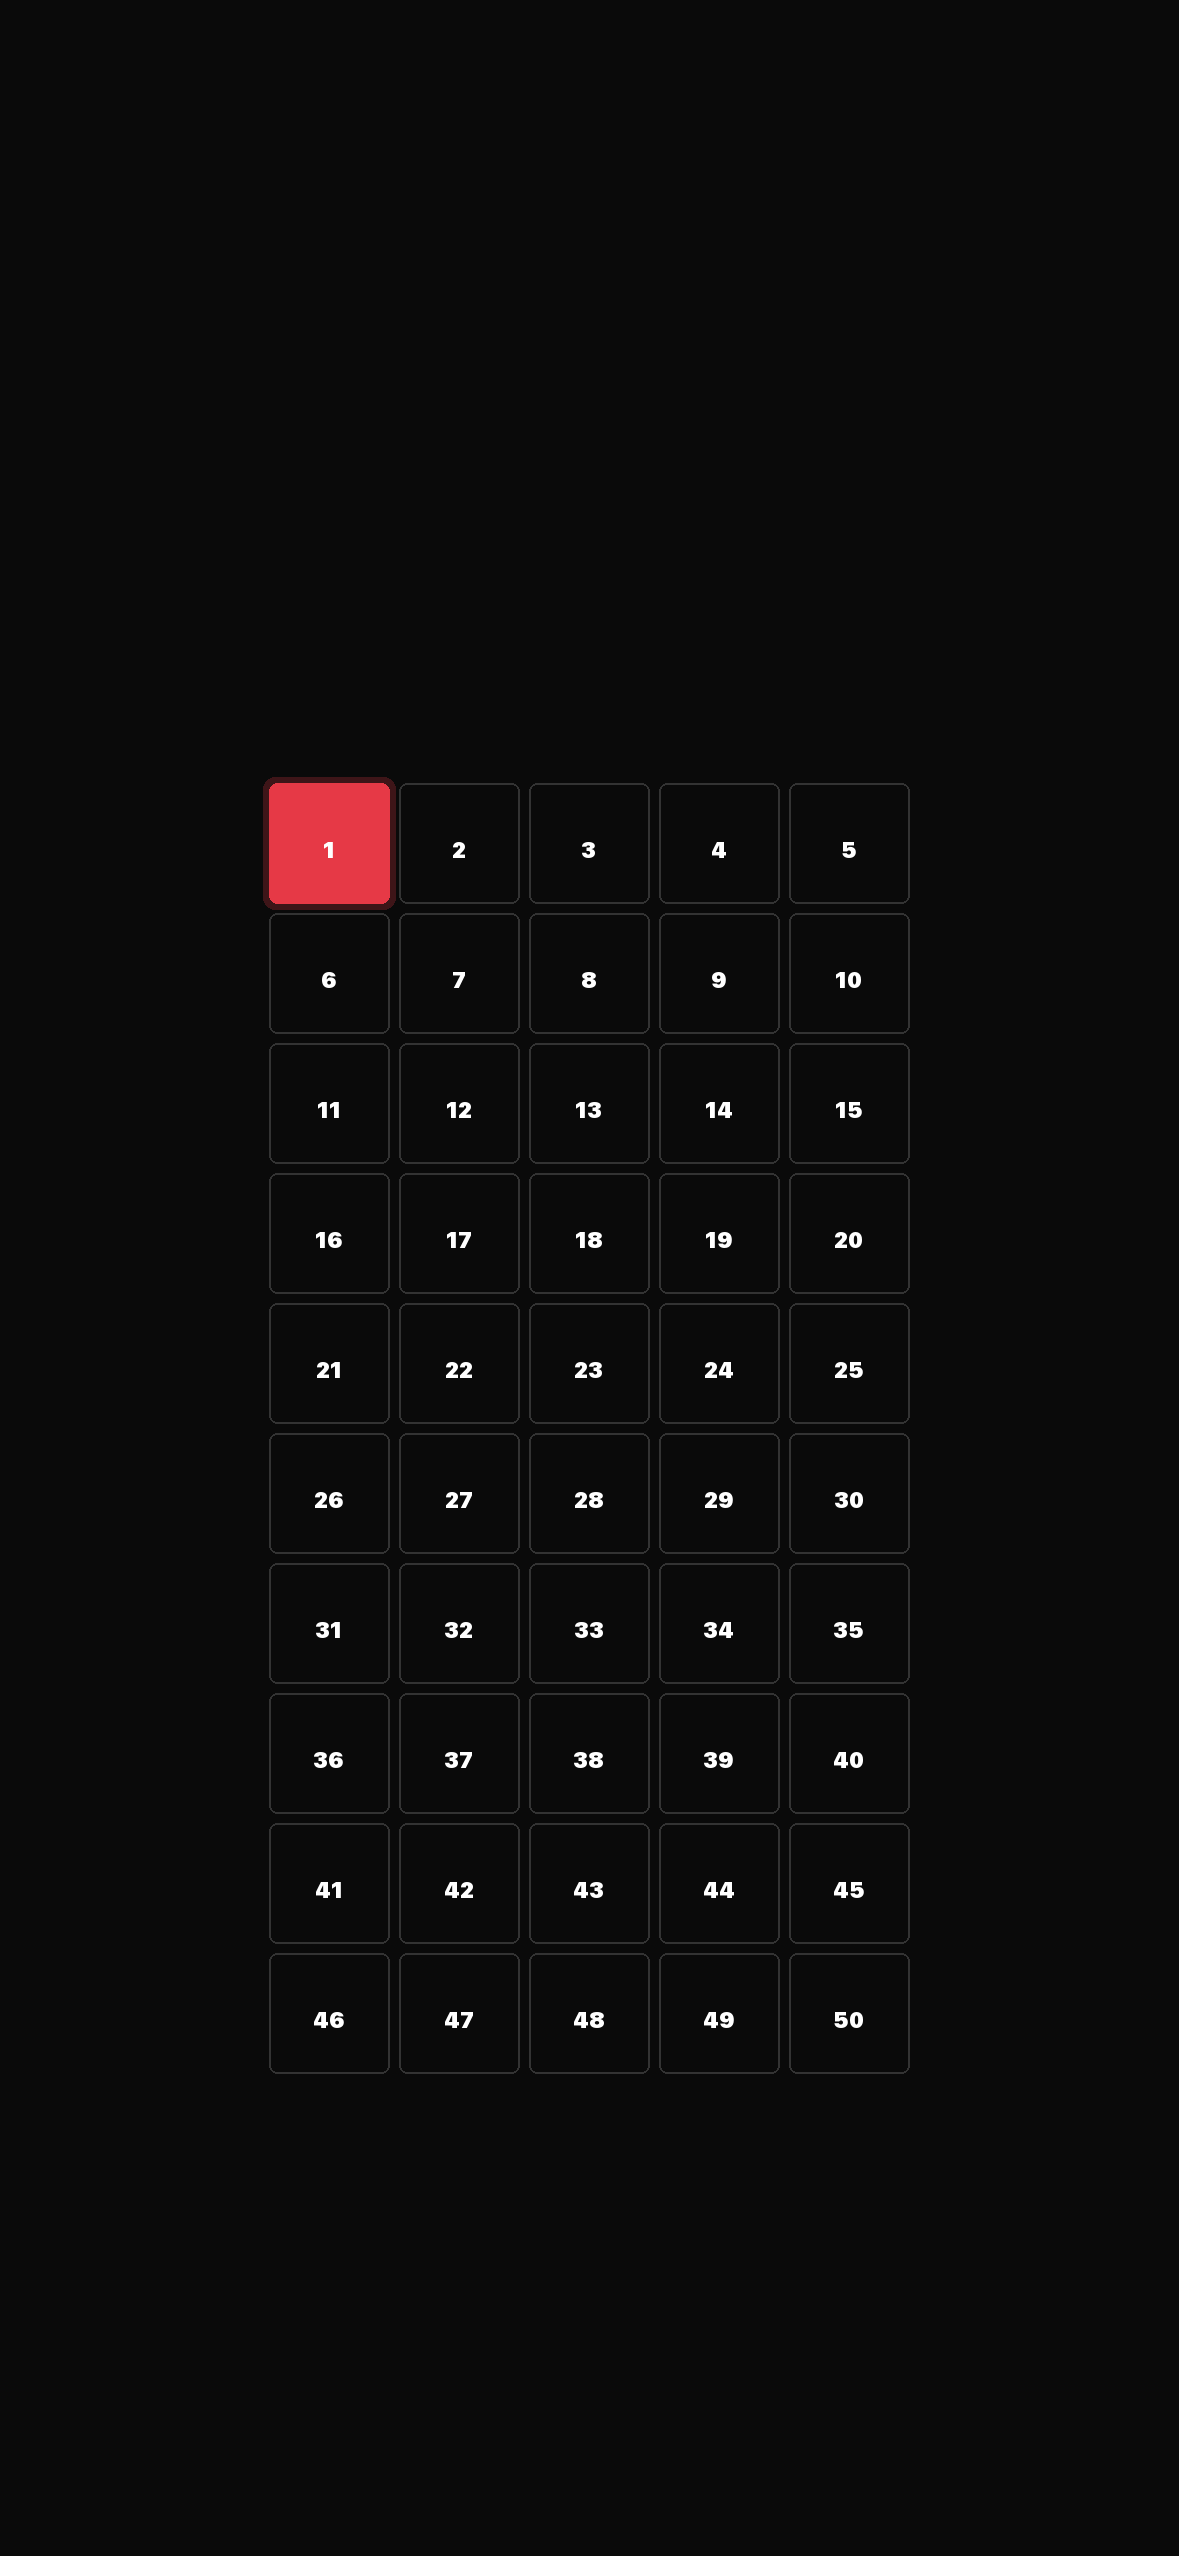
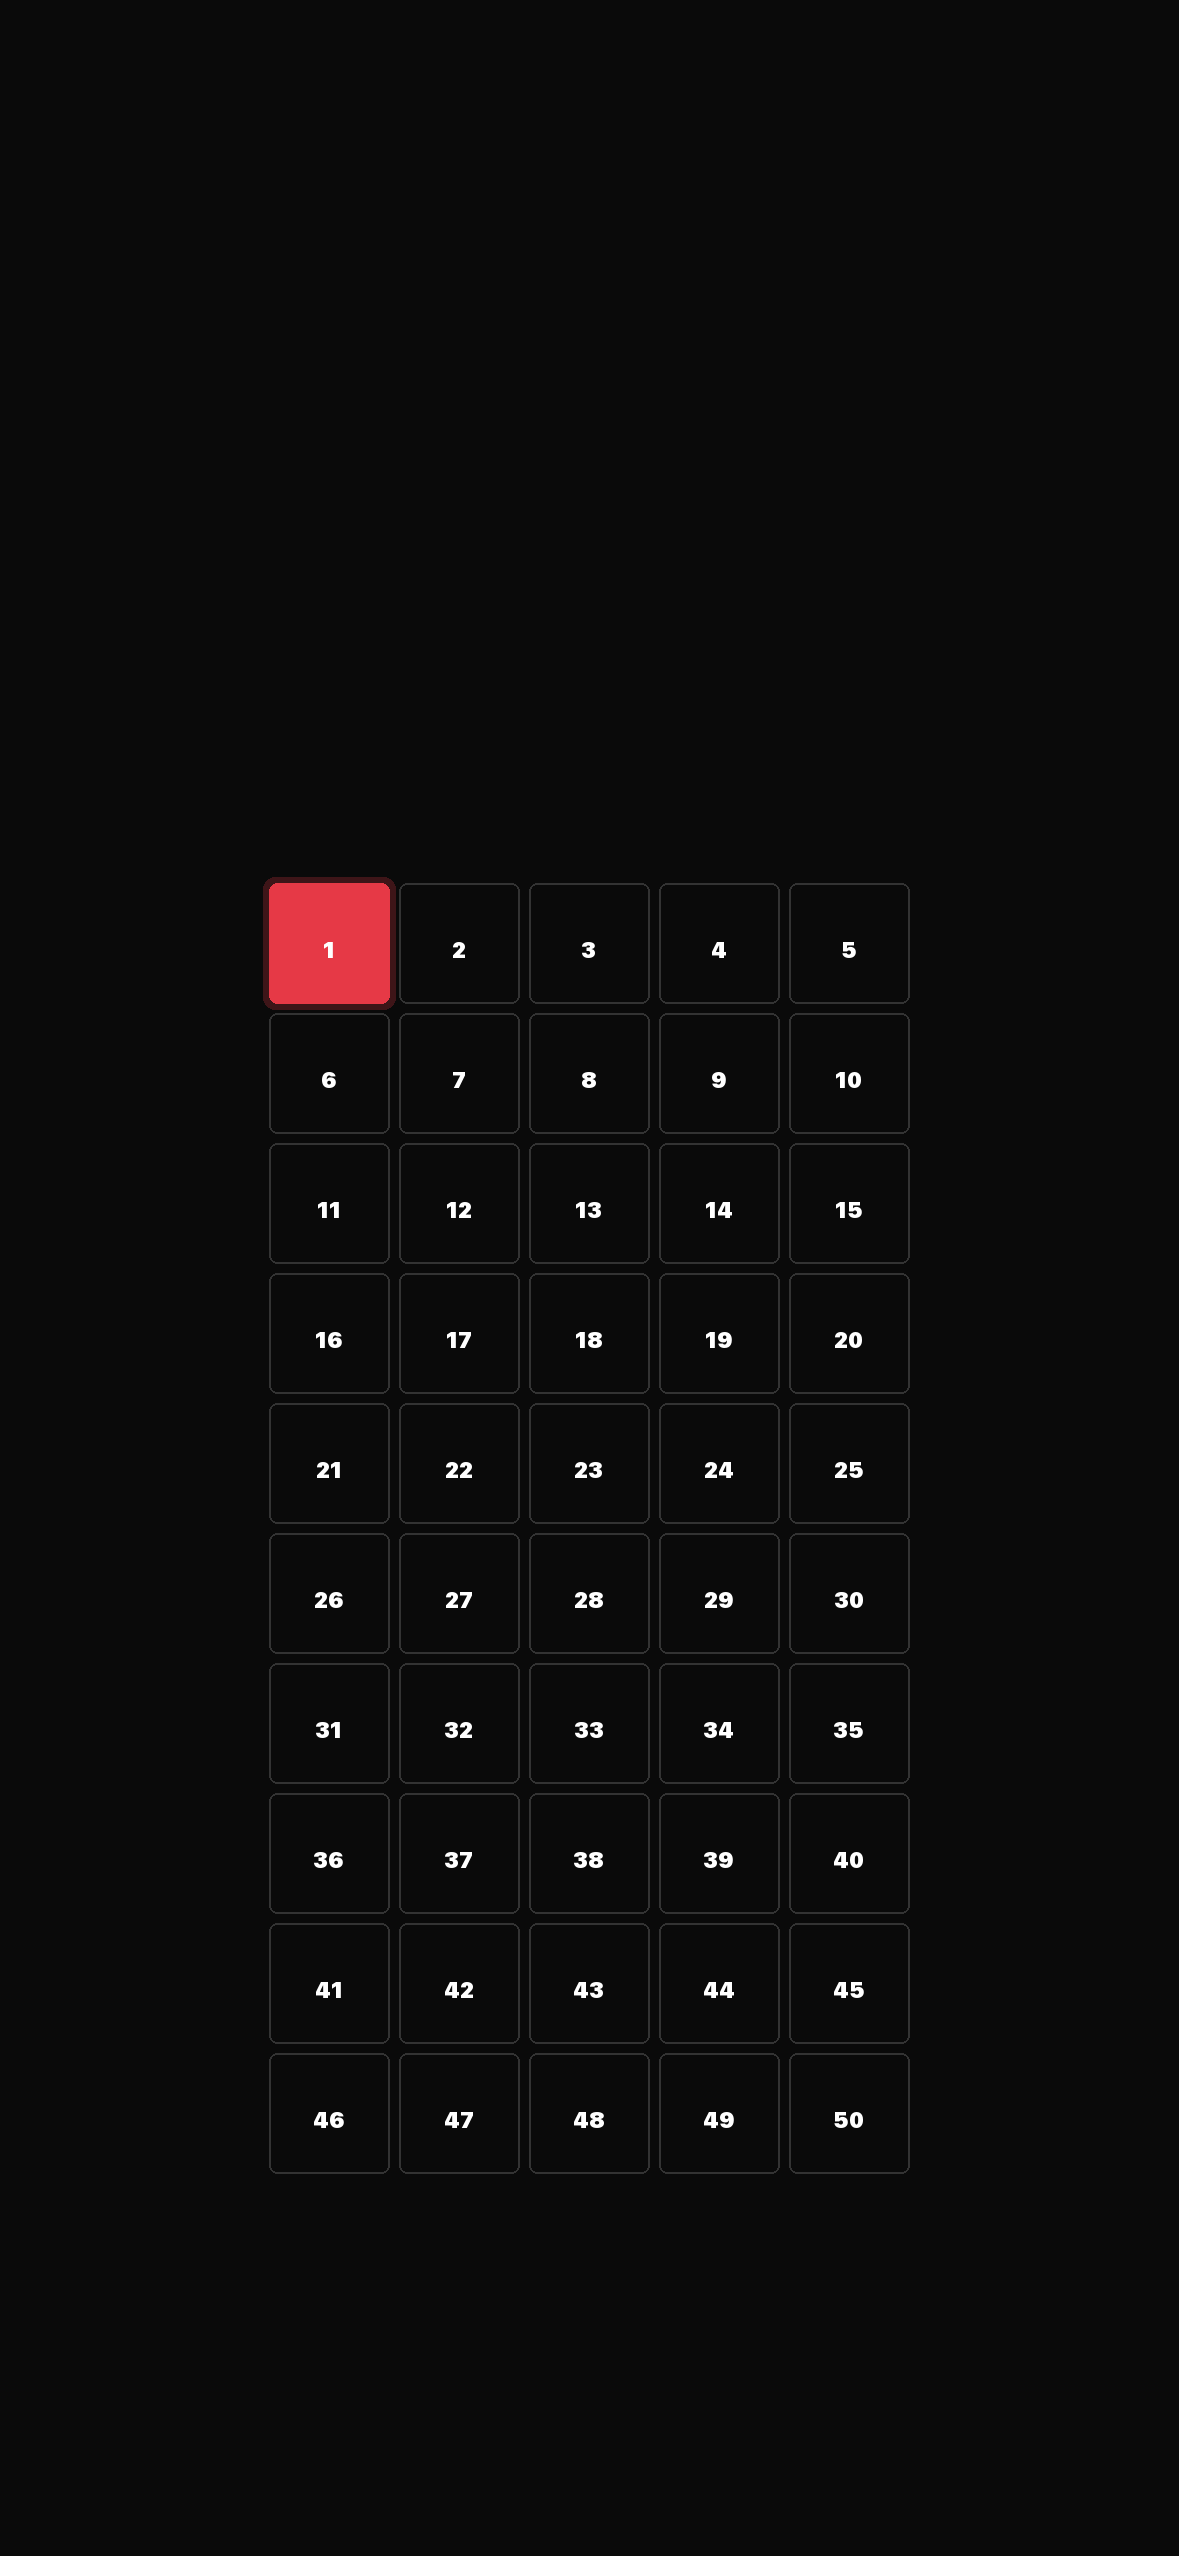
shift grid lower

diff --git a/scripts/generate-wallpaper.py b/scripts/generate-wallpaper.py
@@ -42,7 +42,7 @@ def generate_wallpaper(output_path=None):
     start_x = (WIDTH - grid_width) // 2
     
     # Grid only — no text header (lock screen widgets cover that area)
-    start_y = (HEIGHT - grid_height) // 2 + 150
+    start_y = (HEIGHT - grid_height) // 2 + 250
     
     # Draw grid
     for i in range(TOTAL_DAYS):
